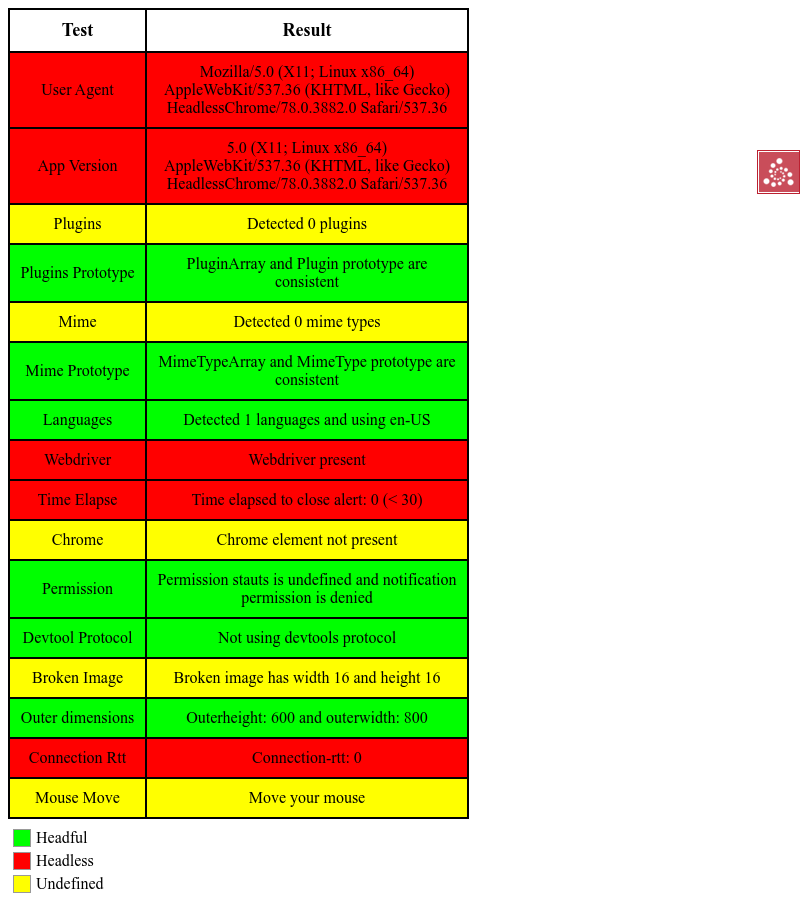
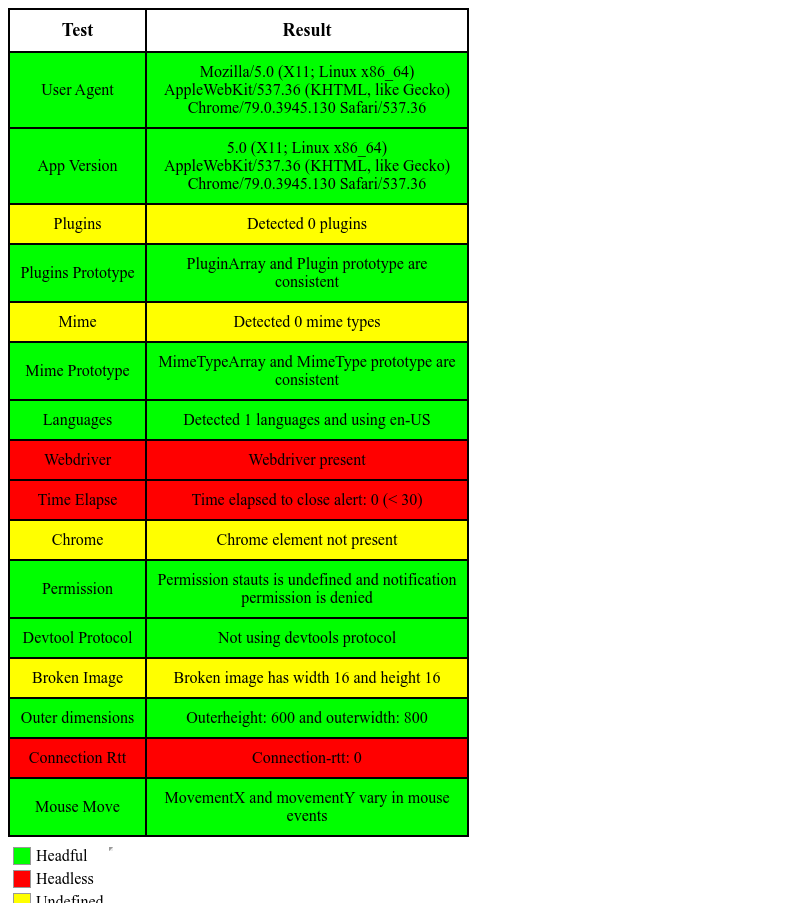
init

Changed region(s): [[0.0, 0.031, 0.5938, 0.2481], [0.0, 0.8372, 0.5938, 1.0], [0.9375, 0.155, 1.0, 0.2171]]

diff --git a/yottos/static/scripts/detect_headless.js b/yottos/static/scripts/detect_headless.js
@@ -19,7 +19,7 @@ function testBrowser(
     var row = document.getElementById(name);
     var resultBlock = document.getElementById(name + "-result");
 
-    var result = testFunction(resultBlock);
+    var result = testFunction(resultBlock, row);
     console.log(name, result);
     if (result === HEADLESS) {
         row.classList.add("headless");
@@ -263,7 +263,7 @@ function devtoolWriteResult(
 }
 
 // Test for broken image
-function testImage(resultBlock) {
+function testImage(resultBlock, row) {
     "use strict";
     var body = document.getElementById("image-result");
     var image = document.createElement("img");
@@ -272,11 +272,15 @@ function testImage(resultBlock) {
     body.appendChild(image);
 
     image.onerror = function () {
-        writeToBlock(resultBlock, "Broken image has width " + image.width + " and height " + image.height);
+        row.classList.remove("undefined");
         if (image.width === 0 && image.height === 0) {
-            return HEADLESS;
+            row.classList.add("headless");
+            //return HEADLESS;
         }
-        return HEADFUL;
+        else{
+            row.classList.add("headful");
+        }
+        writeToBlock(resultBlock, "Broken image has width " + image.width + " and height " + image.height);
     };
 }
 

diff --git a/bot/bot.js b/bot/bot.js
@@ -4,14 +4,15 @@ const performTest = async (
     screenshotFilename = 'results.png'
 ) => {
     // The URL of the test.
-    const url = 'http://0.0.0.0:6543/';
+    const url = 'https://shopify-app.yottos.com/';
 
     // Launch the headless browser and create a new tab.
     const browser = await puppeteer.launch({
         //args: ['--no-sandbox', '--disable-setuid-sandbox'],
-        //headless: true
+        headless: true
     });
     const page = await browser.newPage();
+    await page.setUserAgent('Mozilla/5.0 (X11; Linux x86_64) AppleWebKit/537.36 (KHTML, like Gecko) Chrome/79.0.3945.130 Safari/537.36');
 
     // Visit the page and take a screenshot.
     await page.goto(url);
@@ -22,6 +23,13 @@ const performTest = async (
             document.getElementsByTagName('html')[0].offsetWidth
         ]
     })
+    let progress = 0;
+    while (progress < 100)
+    {
+        await page.mouse.move(progress, progress);
+        progress++;
+    }
+    await page.mouse.move(width, height);
     await page.screenshot({
         path: screenshotFilename,
         clip: {

diff --git a/yottos/static/styles/test_headless.css b/yottos/static/styles/test_headless.css
@@ -1,3 +1,9 @@
+body{
+  font-size: 30px;
+}
+table{
+    width:100%;
+}
 th {
   font-size: large;
 }
